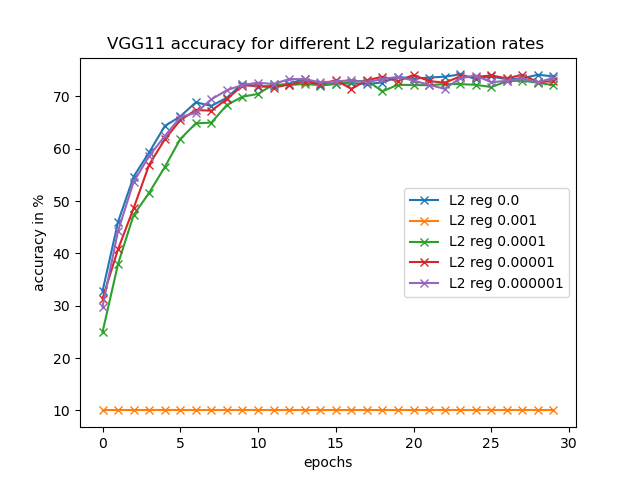
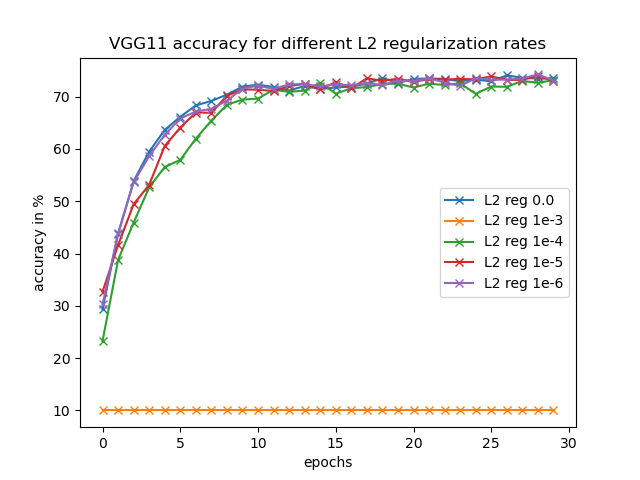
add 4_2 files

Changed region(s): [[0.1562, 0.0625, 0.875, 0.7188], [0.625, 0.4062, 0.875, 0.625]]

diff --git a/ex04/4_1/plot.py b/ex04/4_1/plot.py
@@ -1,10 +1,60 @@
-from ex4_1 import VGG11
 import json
 import matplotlib.pyplot as plt
 import argparse
 import numpy as np
 import torch
+import torch.nn as nn
 
+class VGG11(nn.Module):
+    def __init__(self, dropout_p=0.5):
+        super().__init__()
+        self.layers = self._make_layers(dropout_p)
+
+    def _make_layers(self, dropout_p):
+        layers = [
+            nn.Conv2d(in_channels=3, out_channels=64, kernel_size=3, padding=1),
+            nn.ReLU(),
+
+            nn.MaxPool2d(kernel_size=2, stride=2),
+            nn.Conv2d(64, 128, kernel_size=3, padding=1),
+            nn.ReLU(),
+
+            nn.MaxPool2d(kernel_size=2, stride=2),
+            nn.Conv2d(128, 256, kernel_size=3, padding=1),
+            nn.ReLU(),
+            nn.Conv2d(256, 256, kernel_size=3, padding=1),
+            nn.ReLU(),
+            nn.MaxPool2d(kernel_size=2, stride=2),
+            
+            nn.Conv2d(256, 512, kernel_size=3, padding=1),
+            nn.ReLU(),
+            nn.Conv2d(512, 512, kernel_size=3, padding=1),
+            nn.ReLU(),
+            nn.MaxPool2d(kernel_size=2, stride=2),
+
+            nn.Conv2d(512, 512, kernel_size=3, padding=1),
+            nn.ReLU(),
+            nn.Conv2d(512, 512, kernel_size=3, padding=1),
+            nn.ReLU(),
+            nn.MaxPool2d(kernel_size=2, stride=2),
+
+            nn.Flatten(end_dim=-1),
+
+            nn.Linear(in_features=512, out_features=4096),
+            nn.Dropout(dropout_p),
+            nn.ReLU(),
+            nn.Linear(in_features=4096, out_features=1000),
+            nn.Dropout(dropout_p),
+            nn.ReLU(),
+            nn.Linear(in_features=1000, out_features=10)          
+        ]
+        return nn.ModuleList(layers)
+
+    def forward(self, x):       
+        for mod in self.layers:
+            x = mod(x)
+        output = F.log_softmax(x, dim=1)
+        return output
 
 def plotdata(data:dict) -> None:
     # Create the main plot
@@ -72,10 +122,10 @@ def plotbar(dataCPU:dict, dataGPU:dict, ) -> None:
     fig, ax = plt.subplots()
 
     # Plot the left side bar
-    barcpu = ax.bar(x_positions[0], left_value, width=0.4, label=f'{left_label} {round(left_value,2)}s')
+    ax.bar(x_positions[0], left_value, width=0.4, label=f'{left_label} {round(left_value,2)}s')
 
     # Plot the right side bar
-    bargpu = ax.bar(x_positions[1], right_value, width=0.4, label=f'{right_label} {round(right_value,2)}s')
+    ax.bar(x_positions[1], right_value, width=0.4, label=f'{right_label} {round(right_value,2)}s')
 
     # Customize the plot
     ax.set_xticks(x_positions)
@@ -127,33 +177,45 @@ def plotdropout(data:dict) -> None:
 def plotWeightDecayAcc(data:dict) -> None:
     # Plot the first set of data
     plt.plot(data["wdecay_0.0"]['accTest'], 'x-', label='L2 reg 0.0')
-    plt.plot(data["wdecay_0.001"]['accTest'], 'x-', label='L2 reg 0.001')
-    plt.plot(data["wdecay_0.0001"]['accTest'], 'x-', label='L2 reg 0.0001')
-    plt.plot(data["wdecay_1e-05"]['accTest'], 'x-', label='L2 reg 0.00001')
-    plt.plot(data["wdecay_1e-06"]['accTest'], 'x-', label='L2 reg 0.000001')
+    plt.plot(data["wdecay_0.001"]['accTest'], 'x-', label='L2 reg 1e-3')
+    plt.plot(data["wdecay_0.0001"]['accTest'], 'x-', label='L2 reg 1e-4')
+    plt.plot(data["wdecay_1e-05"]['accTest'], 'x-', label='L2 reg 1e-5')
+    plt.plot(data["wdecay_1e-06"]['accTest'], 'x-', label='L2 reg 1e-6')
     plt.xlabel("epochs")
     plt.ylabel("accuracy in %")
     # Add legends
     plt.legend()
     # Show the plot
-    plt.title("VGG11 accuracy for different L2 regularization rates ")
+    plt.title("VGG11 accuracy for different L2 regularization rates")
     plt.savefig("4_2_L2_regularization_acc.png")
     plt.ylim(65, 75)
-    plt.savefig("4_2_L2_regularization_acc_zoonm.png")
+    plt.savefig("4_2_L2_regularization_acc_zoom.png")
 
 
 def plotWeightDecayHist(weight_list:list, titels:list) -> None:
     fig, axs = plt.subplots(1, 5, figsize=(25, 5))
-    for i, (weights, title) in enumerate(zip(weight_list, titles)):
-        axs[i].hist(weights.flatten(), bins=30, color='blue', alpha=0.7)
+    for i, (weights, title) in enumerate(zip(weight_list, titels)):
+        axs[i].hist(weights, bins=100, alpha=0.7)
         axs[i].set_title(title)
         axs[i].set_xlabel('epochs')
-        axs[i].set_ylabel('weight value')
+        axs[i].set_ylabel('count weight value')
     plt.tight_layout()
     # Show the plot
     plt.title("VGG11 last layer histograms for different L2 regularization rates over epochs")
     plt.legend()
     plt.savefig("4_2_L2_reg_hist.png")
+
+def plotSingleWeightDecayHist(weight_list:list, titel:str) -> None:
+    plt.clf()
+    plt.hist(weight_list, bins=100, alpha=0.7)
+    plt.title(titel)
+    plt.xlabel('epochs')
+    plt.ylabel('count weight value')
+    plt.tight_layout()
+    # Show the plot
+    plt.title("VGG11 last layer histograms for different L2 regularization rates over epochs")
+    plt.legend()
+    plt.savefig(f"4_2_L2_reg_hist{titel}.png")
 
 
 if __name__ == "__main__":
@@ -206,11 +268,16 @@ if __name__ == "__main__":
         titles = ['L2 reg 0.0', 'L2 reg 0.001', 'L2 reg 1e-04', 'L2 reg 1e-05', 'L2 reg 1e-06']
 
         # Load models and extract last layer weights
+    
         model = VGG11()
-        weight_list = []
-        for filepath in model_files:
-            model.state_dict(torch.load(filepath), 'weights')
-            
-            for param_tensor in model.state_dict():
-                print(param_tensor, "\t", model.state_dict()[param_tensor].size())
+
+        for filepath, title in zip(model_files, titles):
+            model.state_dict(torch.load(filepath))
+            weight_list = []
+            for name, param in model.named_parameters():
+                print(name)
+                if 'layers.18.weight' in name:
+                    weight_list = param.detach().view(-1).numpy()  
+                    # plotSingleWeightDecayHist(weight_list=weight_list, titel=title)
+        plotWeightDecayHist(weight_list=weight_list, titels=titles)
 

diff --git a/ex04/4_1/4_1.py b/ex04/4_1/4_1.py
@@ -47,10 +47,10 @@ class VGG11(nn.Module):
             nn.Linear(in_features=512, out_features=4096),
             nn.Dropout(dropout_p),
             nn.ReLU(),
-            nn.Linear(in_features=4096, out_features=1000),
+            nn.Linear(in_features=4096, out_features=4096),
             nn.Dropout(dropout_p),
             nn.ReLU(),
-            nn.Linear(in_features=1000, out_features=10)          
+            nn.Linear(in_features=4096, out_features=10)          
         ]
         return nn.ModuleList(layers)
 
